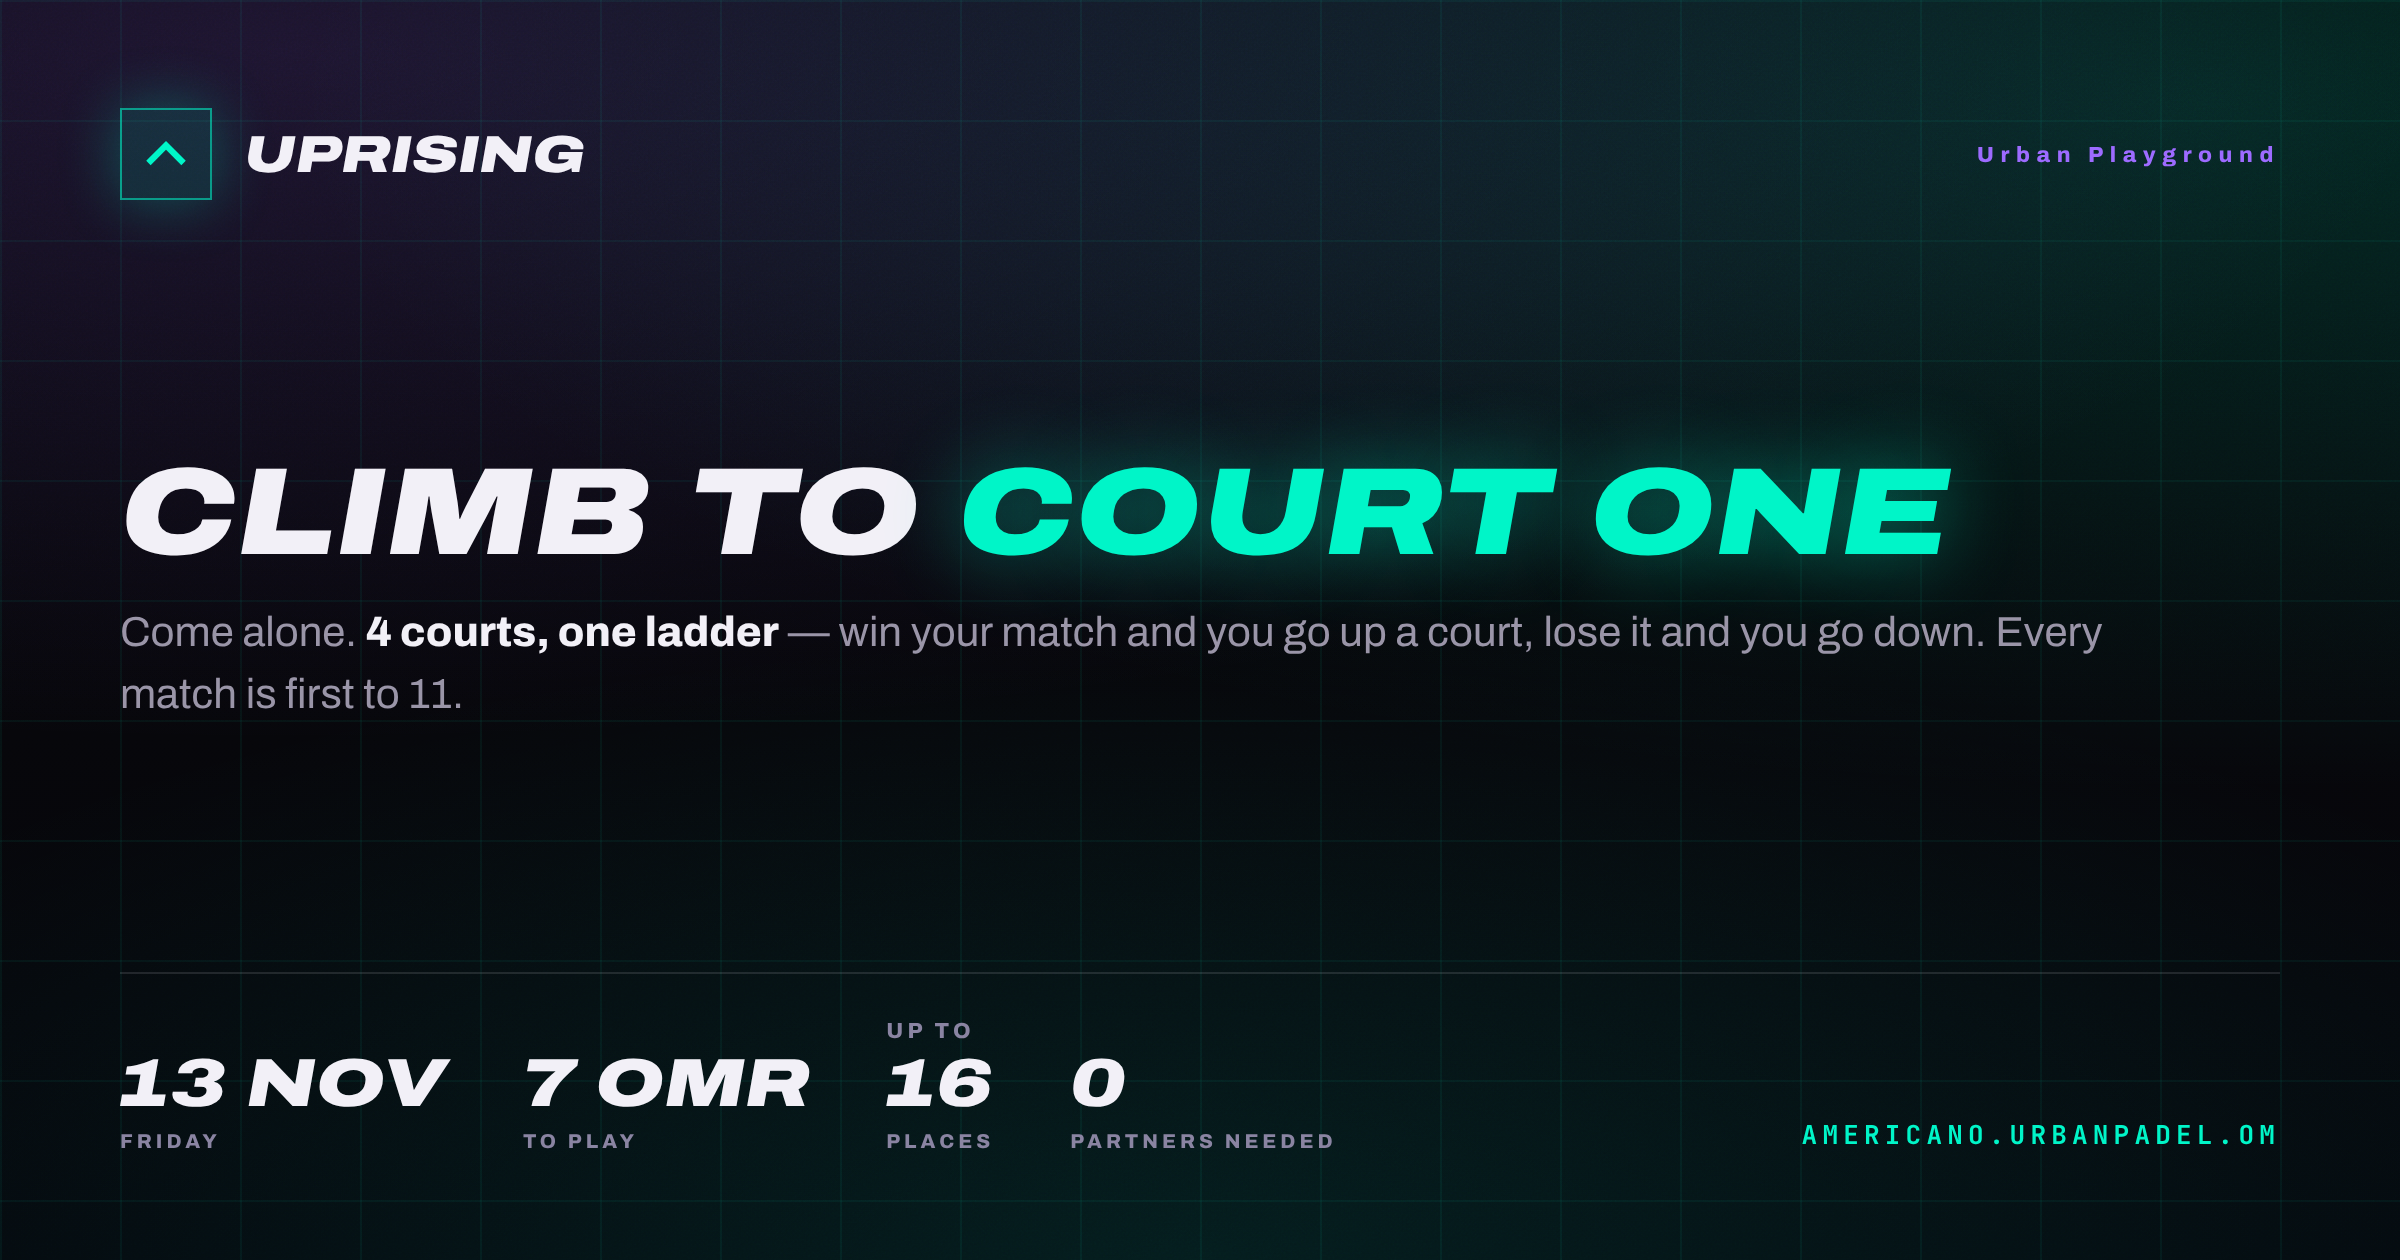
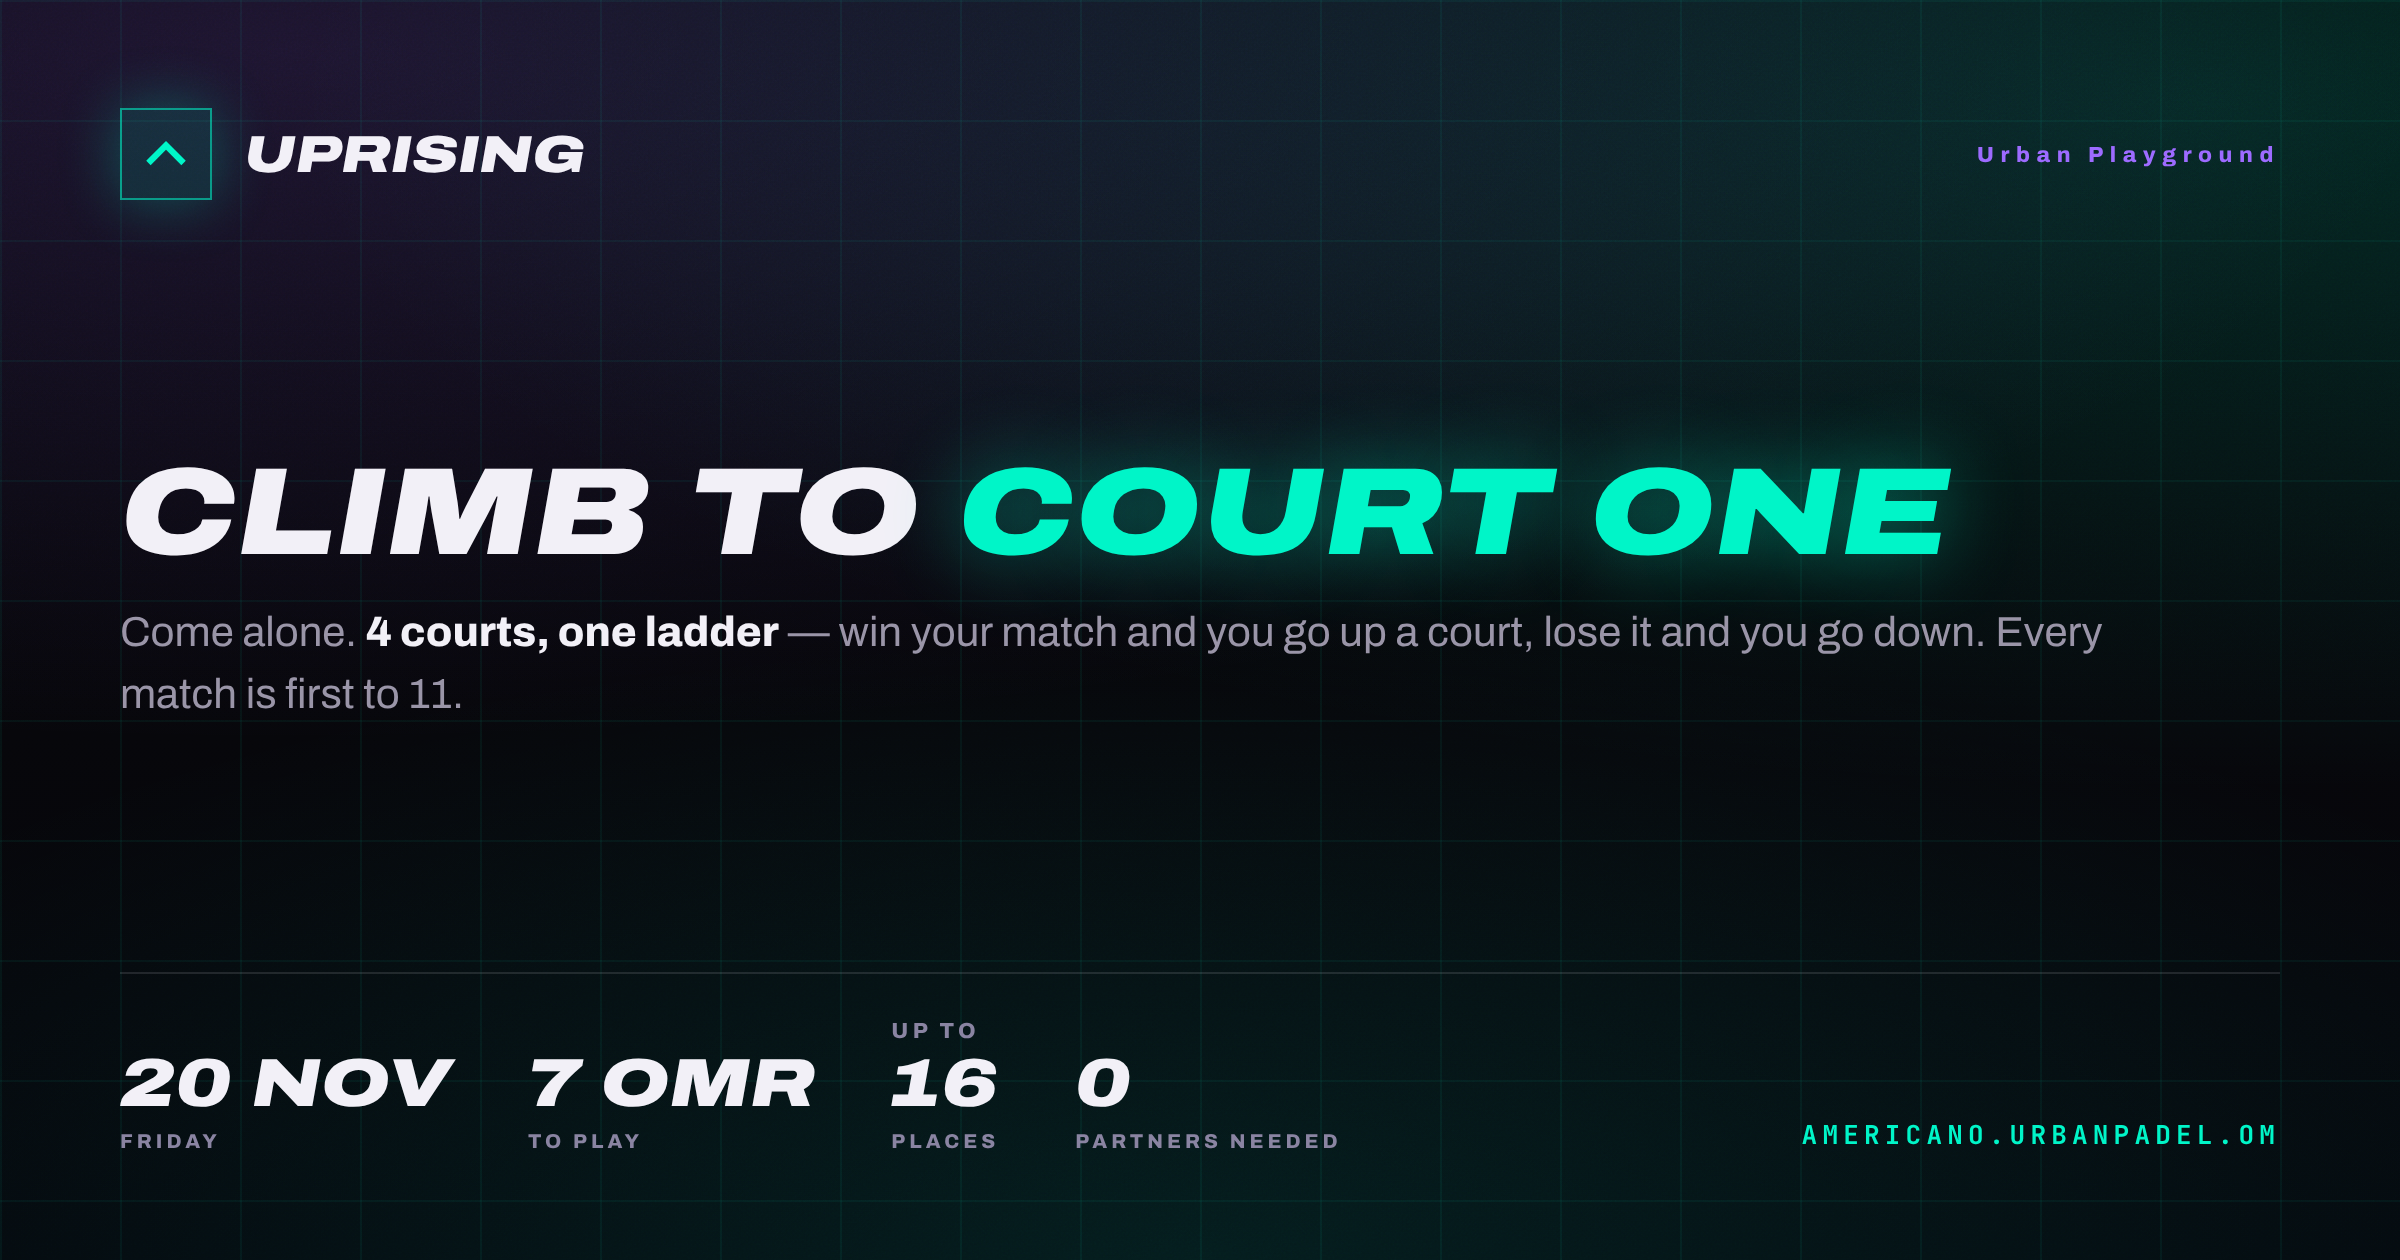
The roll compares the SERVED pages, not the working tree
The Saturday routine fired at 08:44 Muscat, ran three minutes, reported
SUCCEEDED — and left the link preview advertising Fri 13 Nov, the night
that had already been played.

The script md5'd americano-index.html and landing/index.html before and
after the build and skipped the deploy when they matched. That asks
"did the build change the files on disk", which is a different question
from "is the live site stale", and the two come apart the moment a
publish fails: once the rolled pages are sitting on disk undeployed,
every later run rebuilds the same bytes, sees no change, and announces
"nothing changed — not deploying". THE SCRIPT COULD NEVER RECOVER FROM
A FAILED PUBLISH. It just kept saying it was fine, which is the same
silent-success failure the routine itself was written to end.

The same mistake is already on the record in this repo for the Vol.9
watch script, which compared the live page against a local working
copy and cried wolf.

It now compares the deployed page against the built one: the og:image
tag (which carries the image's own content hash) and the og:description
(which carries the date), plus the landing panel's UP:WHEN. Proved not
vacuous — the live and built signatures match at f36bd66f, and the same
page a week stale hashes to 525be73c, which would publish.

Live is correct again: Fri 20 Nov on both the preview and the panel.

Claude-Session: https://claude.ai/code/session_01ApGxEQHux35SFcgLtzTmdN

diff --git a/americano-index.html b/americano-index.html
@@ -43,8 +43,8 @@
 <meta property="og:site_name" content="Urban Playground" />
 <meta property="og:url" content="https://americano.urbanpadel.om/" />
 <meta property="og:title" content="UPRISING — Climb to Court One" />
-<meta property="og:description" content="Come alone, no partner needed. 4 courts, one ladder: win and you go up a court, lose and you go down. Fri 13 Nov · 7 OMR · up to 16 places." />
-<meta property="og:image" content="https://americano.urbanpadel.om/og-card.jpg" />
+<meta property="og:description" content="Come alone, no partner needed. 4 courts, one ladder: win and you go up a court, lose and you go down. Fri 20 Nov · 7 OMR · up to 16 places." />
+<meta property="og:image" content="https://americano.urbanpadel.om/og-card.jpg?v=e8311a7ccb" />
 <meta property="og:image:width" content="1200" />
 <meta property="og:image:height" content="630" />
 <meta property="og:image:alt" content="UPRISING — climb to court one. 4 courts, one ladder." />
@@ -3085,8 +3085,8 @@ function Admin({ guests, newName, setNewName, onAdd, onRename, onDelete }) {
 // below, exactly as the RULES screen reads them, so this page cannot advertise
 // a number the scoring contradicts.
 const UP_NEXT = {
-  date: "2026-11-13",
-  dateLabel: "Fri 13 Nov",
+  date: "2026-11-20",
+  dateLabel: "Fri 20 Nov",
   entry: "7 OMR",
   cap: 16,
   courts: 4,

diff --git a/brand/uprising/posts/story-2-ladder.html b/brand/uprising/posts/story-2-ladder.html
@@ -104,6 +104,6 @@
           <span class="pts"><b>6</b><i> / 3</i></span></div><div class="rung"><span class="cn">COURT 3</span><span class="note">A win here is worth a loss on Court 1.</span>
           <span class="pts"><b>4</b><i> / 2</i></span></div><div class="rung"><span class="cn">COURT 4</span><span class="note">The bottom. Only one way to go.</span>
           <span class="pts"><b>2</b><i> / 1</i></span></div></div>
-  <div class="hostline"><span class="host">FRI 13 NOV &nbsp;·&nbsp; AMERICANO.URBANPADEL.OM</span></div>
+  <div class="hostline"><span class="host">FRI 20 NOV &nbsp;·&nbsp; AMERICANO.URBANPADEL.OM</span></div>
 </div>
 </body></html>

diff --git a/brand/uprising/posts/story-5-claim.html b/brand/uprising/posts/story-5-claim.html
@@ -112,7 +112,7 @@
        waitlist, and places go faster than they come back.</p>
   </div>
   <div class="card">
-    <div class="row"><span class="k">When</span><span class="v">TONIGHT · FRI 13 NOV</span></div>
+    <div class="row"><span class="k">When</span><span class="v">20 NOV · FRI 20 NOV</span></div>
     <div class="row"><span class="k">Entry</span><span class="v">7 OMR</span></div>
     <div class="row"><span class="k">Places</span><span class="v">Up to 16</span></div>
     <div class="row"><span class="k">Partner</span><span class="v">Not needed</span></div>

diff --git a/brand/uprising/posts/og-card.html b/brand/uprising/posts/og-card.html
@@ -65,7 +65,7 @@
   </div>
   <div class="foot">
     <div style="display:flex;gap:38px;align-items:flex-end">
-      <span class="fact"><b class="disp">13 NOV</b><i>FRIDAY</i></span>
+      <span class="fact"><b class="disp">20 NOV</b><i>FRIDAY</i></span>
       <span class="fact"><b class="disp">7 OMR</b><i>To play</i></span>
       <span class="fact"><b class="disp"><u>Up to</u>16</b><i>Places</i></span>
       <span class="fact"><b class="disp">0</b><i>Partners needed</i></span>

diff --git a/brand/uprising/posts/post-4-prizes.html b/brand/uprising/posts/post-4-prizes.html
@@ -89,7 +89,7 @@
     <div style="display:flex;gap:40px;align-items:flex-end">
       <span class="fact"><b class="disp">7 OMR</b><i>To play</i></span>
       <span class="fact"><b class="disp"><u>Up to</u>16</b><i>Places</i></span>
-      <span class="fact"><b class="disp">13 NOV</b><i>FRIDAY</i></span>
+      <span class="fact"><b class="disp">20 NOV</b><i>FRIDAY</i></span>
     </div>
     <span class="host">WHATSAPP THE CLUB<small>AMERICANO.URBANPADEL.OM</small></span>
   </div>

diff --git a/brand/uprising/posts/story-1-name.html b/brand/uprising/posts/story-1-name.html
@@ -104,8 +104,8 @@
        and a different partner almost every round.</p>
   </div>
   <div class="when">
-    <div class="day disp">TONIGHT</div>
-    <div class="dl">FRI 13 NOV &nbsp;·&nbsp; NO PARTNER NEEDED</div>
+    <div class="day disp">20 NOV</div>
+    <div class="dl">FRI 20 NOV &nbsp;·&nbsp; NO PARTNER NEEDED</div>
   </div>
   <div class="hostline"><span class="host">AMERICANO.URBANPADEL.OM<small>COME ALONE. LEAVE WITH ELEVEN.</small></span></div>
 </div>

diff --git a/brand/uprising/posts/post-1-hero.html b/brand/uprising/posts/post-1-hero.html
@@ -73,8 +73,8 @@
        partner almost every round, and the court you are standing on is your position.</p>
   </div>
   <div class="when">
-    <div class="day disp">TONIGHT</div>
-    <div class="dl">FRI 13 NOV &nbsp;·&nbsp; NO PARTNER NEEDED</div>
+    <div class="day disp">20 NOV</div>
+    <div class="dl">FRI 20 NOV &nbsp;·&nbsp; NO PARTNER NEEDED</div>
   </div>
   <div class="foot">
     <div style="display:flex;gap:40px;align-items:flex-end">

diff --git a/landing/index.html b/landing/index.html
@@ -518,7 +518,7 @@
   <a href="https://americano.urbanpadel.om" class="up tick">
     <div class="glow"></div>
     <div class="head">
-      <span class="kick"><i></i><!--UP:WHEN-->TONIGHT · FRI 13 NOV<!--/UP:WHEN--></span>
+      <span class="kick"><i></i><!--UP:WHEN-->FRI 20 NOV<!--/UP:WHEN--></span>
       <span class="stamp">NEW</span>
     </div>
     <div class="upmark">UPRISING</div>

diff --git a/brand/uprising/posts/story-3-match.html b/brand/uprising/posts/story-3-match.html
@@ -129,6 +129,6 @@
       <span class="val">1&#8211;8</span>
       <span class="exp">What the court pays. Decides <b>the night</b>.</span></div>
   </div>
-  <div class="hostline"><span class="host">FRI 13 NOV &nbsp;·&nbsp; AMERICANO.URBANPADEL.OM</span></div>
+  <div class="hostline"><span class="host">FRI 20 NOV &nbsp;·&nbsp; AMERICANO.URBANPADEL.OM</span></div>
 </div>
 </body></html>

diff --git a/brand/uprising/posts/story-4-prizes.html b/brand/uprising/posts/story-4-prizes.html
@@ -126,6 +126,6 @@
         <span class="d">Worth twice the points, so the night is not over until it is. One in three is decided there.</span></div>
     </div>
   </div>
-  <div class="hostline"><span class="host">7 OMR TO PLAY &nbsp;·&nbsp; FRI 13 NOV</span></div>
+  <div class="hostline"><span class="host">7 OMR TO PLAY &nbsp;·&nbsp; FRI 20 NOV</span></div>
 </div>
 </body></html>
